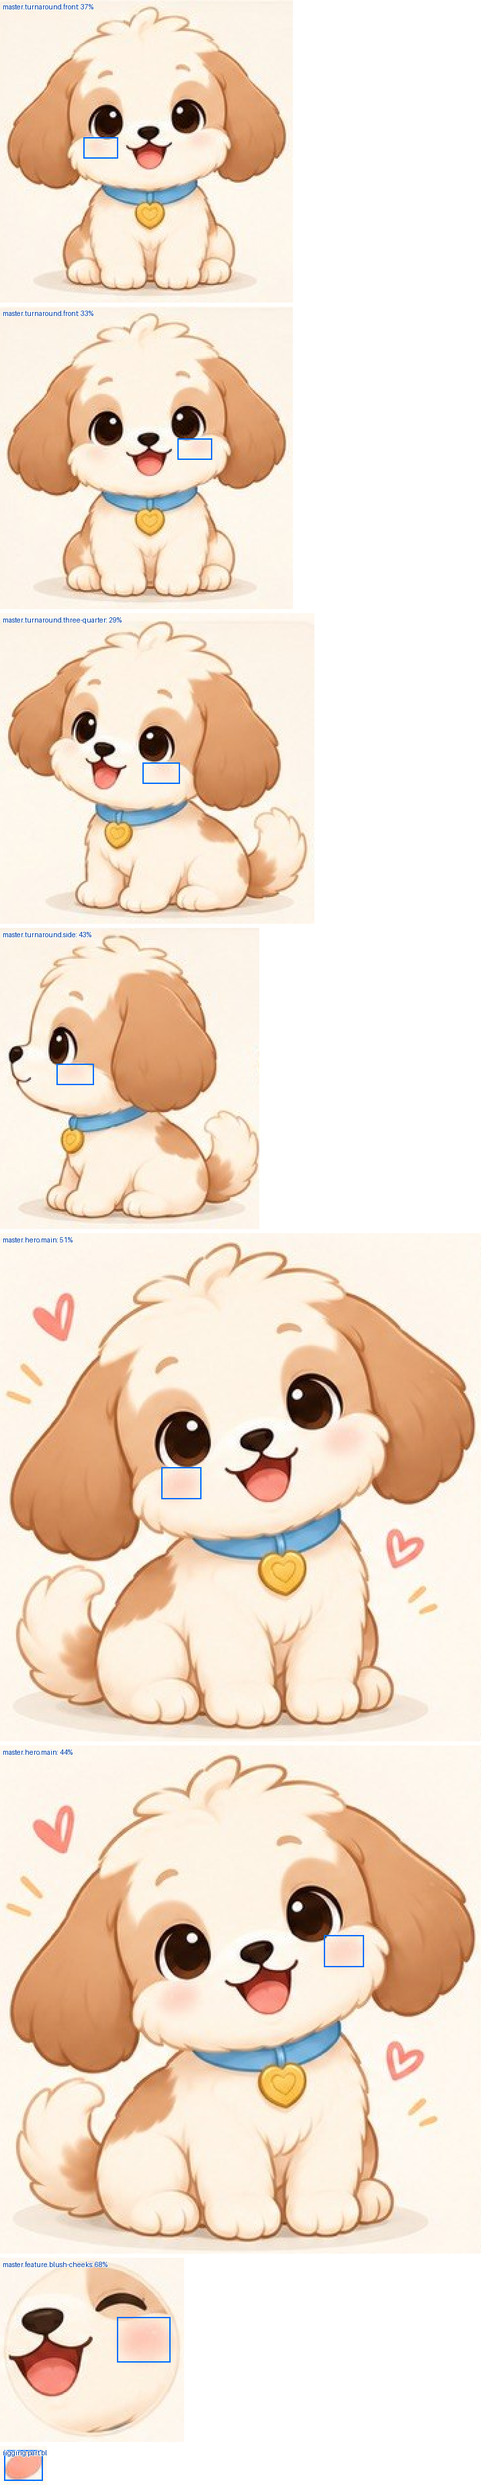
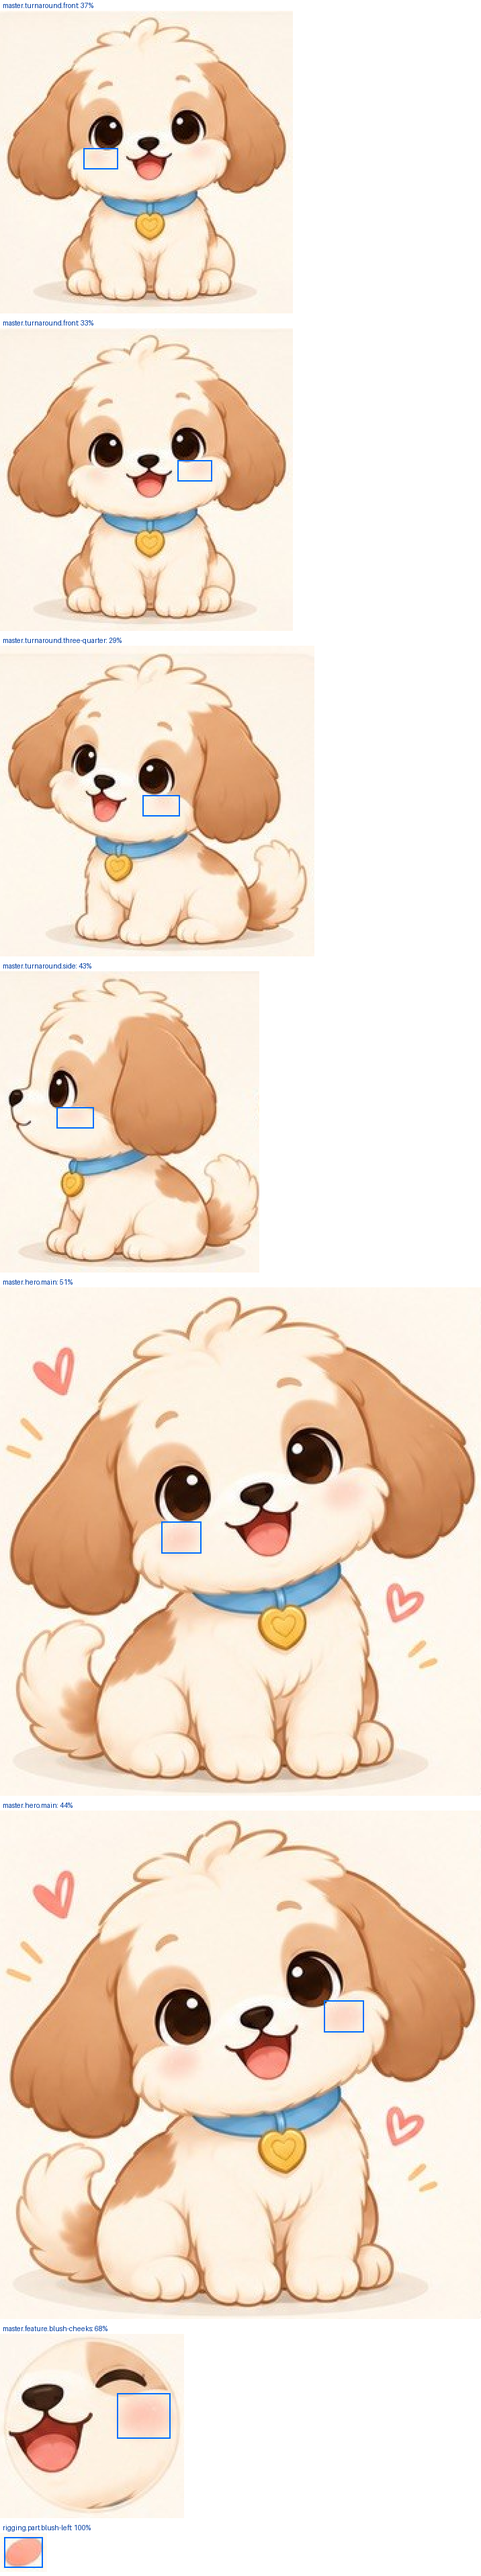
Close the final check's findings
Q24 and DECISIONS 18 give the nose's numbers per view and Q24's default names
every region it moves; DECISIONS 17 gives the Stand's tail root. The tests
pin the collar's centre and the front and back views' ground too, a blush box
off its panel fails through the function sample() uses, and two test names
say what they check. The blush overlay shows every label in full.

Claude-Session: https://claude.ai/code/session_01MXaHnDR5xXHB9UwvyUL8cb

diff --git a/characters/refprep/test_refprep.py b/characters/refprep/test_refprep.py
@@ -225,18 +225,18 @@ class LandmarksOnTheSheetTest(unittest.TestCase):
     # The automatic landmarks as reviewed on the overlays (crop px), so a change that moves one onto another
     # feature (the nose into the mouth, a corner onto the jaw) fails here, not only in a diff.
     REVIEWED = {
-        "front": {"head.top": [111.5, 5.0], "collar.line.sheetLeft": [77.0, 139.0], "collar.line.sheetRight": [146.0, 136.5],
+        "front": {"head.top": [111.5, 5.0], "ground": [110.4, 216.0], "collar": [112.1, 144.2], "collar.line.sheetLeft": [77.0, 139.0], "collar.line.sheetRight": [146.0, 136.5],
                   "tag.top": [111.1, 151.0], "eye.R": [79.3, 89.9], "eye.L": [138.5, 85.8], "nose": [110.2, 98.2],
                   "mouth.R": [94.0, 108.0], "mouth.L": [127.0, 106.0], "ear.R.root": [58.8, 44.0], "ear.R.tip": [41.2, 137.0],
                   "ear.L.root": [157.7, 38.0], "ear.L.tip": [176.5, 133.0], "chin": [110.0, 143.0]},
-        "threeQuarter.L": {"head.top": [120.5, 6.0], "collar.line.sheetLeft": [71.0, 144.5], "collar.line.sheetRight": [136.0, 142.0],
+        "threeQuarter.L": {"head.top": [120.5, 6.0], "collar": [102.6, 149.5], "collar.line.sheetLeft": [71.0, 144.5], "collar.line.sheetRight": [136.0, 142.0],
                            "tag.top": [87.4, 157.0], "eye.R": [63.1, 84.0], "eye.L": [115.0, 96.5], "nose": [76.8, 100.7],
                            "mouth.R": [64.0, 108.0], "mouth.L": [93.0, 113.0], "ear.R.root": [58.4, 35.0], "ear.R.tip": [31.7, 118.0],
                            "ear.L.root": [163.5, 44.0], "ear.L.tip": [169.7, 144.0], "chin": [77.0, 144.0]},
-        "side.L": {"head.top": [82.5, 5.0], "collar.line.sheetLeft": [51.0, 144.0], "collar.line.sheetRight": [105.0, 137.5],
+        "side.L": {"head.top": [82.5, 5.0], "collar": [77.7, 142.7], "collar.line.sheetLeft": [51.0, 144.0], "collar.line.sheetRight": [105.0, 137.5],
                    "tag.top": [53.2, 150.0], "eye.L": [44.4, 86.9], "nose": [10.4, 94.8], "mouth.L": [22.0, 111.0],
                    "ear.L.root": [114.4, 31.0], "ear.L.tip": [114.2, 135.0]},
-        "back": {"head.top": [86.5, 6.0], "collar.line.sheetLeft": [63.0, 131.5], "collar.line.sheetRight": [137.0, 131.5],
+        "back": {"head.top": [86.5, 6.0], "ground": [98.8, 215.0], "collar": [99.5, 127.2], "collar.line.sheetLeft": [63.0, 131.5], "collar.line.sheetRight": [137.0, 131.5],
                  "ear.L.root": [49.2, 29.0], "ear.L.tip": [35.9, 128.0], "ear.R.root": [147.2, 24.0], "ear.R.tip": [162.0, 126.0]},
     }
 
@@ -247,7 +247,7 @@ class LandmarksOnTheSheetTest(unittest.TestCase):
                 with self.subTest(view=view, landmark=name):
                     self.assertLessEqual(np.hypot(points[name][0] - x, points[name][1] - y), 2.5)
 
-    def test_the_tag_hangs_below_its_ring_and_the_ears_root_mid_edge(self):
+    def test_the_tag_hangs_under_its_ring_and_the_face_is_in_order(self):
         for view, (classes, sil, points, _, _) in self.views.items():
             with self.subTest(view=view):
                 if "tag.ring" in points:
@@ -408,8 +408,10 @@ class PaletteTest(unittest.TestCase):
         self.assertAlmostEqual(palette.delta(palette.swatch(np.asarray(image)), "#7DB7E8"), 0.0, places=6)
 
     def test_a_blush_box_off_its_panel_fails(self):
-        self.assertTrue(palette.inside([10, 10, 5, 5], [0, 0, 20, 20]))
-        self.assertFalse(palette.inside([18, 10, 5, 5], [0, 0, 20, 20]))
+        panels = {"p": {"box": [0, 0, 20, 20]}}
+        self.assertEqual(palette.check_blush_box({"panel": "p", "box": [10, 10, 5, 5]}, panels), panels["p"])
+        with self.assertRaises(ValueError):
+            palette.check_blush_box({"panel": "p", "box": [18, 10, 5, 5]}, panels)
 
     def test_a_wash_over_the_fur_gives_its_opacity(self):
         fur, blush = sheets.hex_to_rgb("#FFF4E8").astype(float), sheets.hex_to_rgb("#F7B3A6").astype(float)

diff --git a/characters/refprep/palette.py b/characters/refprep/palette.py
@@ -113,6 +113,14 @@ def regions(rgb, sil, view):
     return {k: v for k, v in found.items() if v is not None and v.any()}
 
 
+def check_blush_box(where, panels):
+    """A cheek box must lie inside the panel it names, so a box moved onto another panel fails."""
+    panel = panels[where["panel"]]
+    if not inside(where["box"], panel["box"]):
+        raise ValueError(f"the blush box {where['box']} is not inside {where['panel']} {panel['box']}")
+    return panel
+
+
 def inside(box, outer):
     """Whether a box [x, y, width, height] lies wholly inside another."""
     x, y, w, h = box
@@ -193,19 +201,22 @@ def sample(species):
             views[view][role] = entry
     cheeks, tiles = [], []
     for where in plan["blush"]:
-        panel = panels[where["panel"]]
+        panel = check_blush_box(where, panels)
         x, y, w, h = where["box"]
         px, py, pw, ph = panel["box"]
-        if not inside(where["box"], panel["box"]):
-            raise ValueError(f"the blush box {where['box']} is not inside {where['panel']} {panel['box']}")
         sheet = sheets.load_sheet(species, panel["sheet"])
         alpha, peak = blush(sheet[y:y + h, x:x + w], printed["fur"], printed["blush"])
         cheeks.append({"panel": where["panel"], "box": where["box"], "note": where["note"],
                        "peak": sheets.rgb_to_hex(peak), "opacity": round(alpha, 2)})
-        tile = Image.fromarray(sheet[py:py + ph, px:px + pw]).resize((pw * 2, ph * 2), Image.NEAREST)
-        draw = ImageDraw.Draw(tile)
+        crop = Image.fromarray(sheet[py:py + ph, px:px + pw]).resize((pw * 2, ph * 2), Image.NEAREST)
+        draw = ImageDraw.Draw(crop)
         draw.rectangle([(x - px) * 2, (y - py) * 2, (x - px + w) * 2 - 1, (y - py + h) * 2 - 1], outline=(0, 110, 255), width=2)
-        draw.text((4, 4), f"{where['panel']}: {alpha:.0%}", fill=(0, 60, 160), stroke_width=1, stroke_fill=(255, 255, 255))
+        # The label goes above the panel, on a strip as wide as it needs.
+        label = f"{where['panel']}: {alpha:.0%}"
+        width = max(crop.width, int(draw.textlength(label)) + 8)
+        tile = Image.new("RGB", (width, crop.height + 16), (255, 255, 255))
+        tile.paste(crop, (0, 16))
+        ImageDraw.Draw(tile).text((4, 2), label, fill=(0, 60, 160))
         tiles.append(np.asarray(tile))
     resting = [c["opacity"] for c in cheeks if c["panel"].startswith("master.turnaround.")]
     outline = [sheets.hex_to_rgb(v["outline"]["dominant"]) for v in views.values() if "outline" in v]

diff --git a/characters/refprep/markings.py b/characters/refprep/markings.py
@@ -75,7 +75,7 @@ def colour_chart(plan, records, tan_printed, path):
     for marking in plan["markings"]:
         seen = [r for r in records if r["marking"] == marking["id"]]
         cells = [(sheets.hex_to_rgb(tan_printed), tan_printed)]
-        cells += [(sheets.hex_to_rgb(r["dominant"]), f"{r['panel'].split('.')[-1].replace('main', 'hero')[:9]} {r['deltaE2000']}") for r in seen]
+        cells += [(sheets.hex_to_rgb(r["dominant"]), f"{r['panel'].split('.')[-1].replace('main', 'hero').replace('three-quarter', '3/4')} {r['deltaE2000']}") for r in seen]
         rows.append((marking["id"], cells))
     palette.chip_image(rows, path)
 

diff --git a/docs/QUESTIONS.md b/docs/QUESTIONS.md
@@ -27,8 +27,8 @@ Where the spec is silent or contradicts itself, I don't invent the answer. The q
 
 ### Q24. Where the dog's sheet paints colours its printed palette doesn't have, do I draw what it paints?
 - **The spec says:** L189 "The dog and rabbit values are their sheets' printed labels"; L181 "Markings | tan `#D9A379`: ears, head and body patches, tail"; L184 "Dark | `#3A2314`: eyes, nose"; L183 "Pink | `#F7B3A6`: blush, tongue"; L507 "one soft shade (the fill 8–12% darker ...)"; L504 "Each part's silhouette, the eye size and spacing ... match the sheet"; L524 the palette check, each region's dominant colour within ΔE2000 3 of the palette.
-- **Why it matters:** measured on the turnaround and the hero (`characters/dog/DECISIONS.md` 17 and 18; `ref/overlays/palette.png`, `markings-colours.png`), five colours are far from the printed values. The pupils and upper iris are near-black `#200C02`, 8.5 to 9.6 from `#3A2314`; the nose is as dark in the front and side views (4.2 to 14.6); `#3A2314` is nearest the lighter lower iris in the front view (2.8). The head patches are a paler tan, `#F0BC92`, 6.3 to 7.7 from `#D9A379`, which the ears (2.8 to 2.9) and the saddle (2.3 to 3.7 on the master sheet, up to 4.5 on the motion sheet) do match. The fur's soft shade is a warmer hue, `#FDE3C8`, 6.2 to 7.5 from the printed Soft Shadow, which is the fur × 0.91, exactly L507's rule (the printed value matches the sheet's ground shadow instead). The tongue is a deeper `#FB9A88`, 6.9 to 9.5 from the pink. The open mouth's inside has no printed value: `#9E241A` in the front view, `#69190C` in the three-quarter. Drawn in the printed values, the eyes look browner, the face patches darker and the tongue paler than the sheet's.
-- **Default:** draw what the sheet paints. `model.json` keeps the printed palette and proposes the five values sampled on the front view beside it (`paletteProposed`), each for its own region only. The palette check holds each region to one value at ΔE2000 3, never to whichever entry is nearest. What changes is that value: while this default holds, the pupils, the head patches, the fur's shade and the tongue are held to the sampled colours, and drawn in the printed ones they would fail. At Gate A I show the dog in both versions beside the sheet.
+- **Why it matters:** measured on the turnaround and the hero (`characters/dog/DECISIONS.md` 17 and 18; `ref/overlays/palette.png`, `markings-colours.png`), five colours are far from the printed values. The pupils and upper iris are near-black `#200C02`, 8.5 to 9.6 from `#3A2314`; the nose is near-black too, 14.6 and 8.8 from `#3A2314` in the front and side views (4.2 in the three-quarter, which carries a large shine), `#200C02` matching the side's nose (0.4) and the front's darker still (8.1); `#3A2314` is nearest the lighter lower iris in the front view (2.8; 5.4 and 8.0 in the side and three-quarter views). The head patches are a paler tan, `#F0BC92`, 6.3 to 7.7 from `#D9A379`, which the ears (2.8 to 2.9) and the saddle (2.3 to 3.7 on the master sheet, up to 4.5 on the motion sheet) do match. The fur's soft shade is a warmer hue, `#FDE3C8`, 6.2 to 7.5 from the printed Soft Shadow, which is the fur × 0.91, exactly L507's rule (the printed value matches the sheet's ground shadow instead). The tongue is a deeper `#FB9A88`, 6.9 to 9.5 from the pink. The open mouth's inside has no printed value: `#9E241A` in the front view, `#69190C` in the three-quarter. Drawn in the printed values, the eyes look browner, the face patches darker and the tongue paler than the sheet's.
+- **Default:** draw what the sheet paints. `model.json` keeps the printed palette and proposes the five values sampled on the front view beside it (`paletteProposed`), each for its own region only. The palette check holds each region to one value at ΔE2000 3, never to whichever entry is nearest. What changes is that value: while this default holds, the pupils, the upper iris, the nose, the head patches, the fur's shade and the tongue are held to the sampled colours, and drawn in the printed ones they would fail. At Gate A I show the dog in both versions beside the sheet.
 - **Owner:** founder
 
 ### Q25. The palette check would fail the sheet's own blush. May I check the blush as a level?

diff --git a/characters/dog/DECISIONS.md b/characters/dog/DECISIONS.md
@@ -79,11 +79,11 @@ Overlay: `palette.png`; crops `master.palette.*.png`.
 
 **17. How the sheet's pixels compare with the printed values** (CIEDE2000, `ref/palette.json`):
 - The swatches, as the JPEG holds them, are 1.5 to 4.6 from their printed values; three are over 3: Eyes / Nose 4.6, Gold Tag 3.9, Collar Blue 3.1. The printed values stay.
-- In the drawn dog the fur (0.5 to 1.2), the ears' tan (2.8 to 2.9), the saddle (2.3 to 3.7 on the master sheet, 3.9 to 4.5 on the motion sheet's poses), the tail's root (2.2 to 2.8; 6.8 where it shows pale inside the curl from behind), the tag (3.0 to 3.4) and the ground shadow (1.9 to 3.0) are at or near the printed values. The printed Soft Shadow is the ground shadow's colour. The collar's most common colour is its shaded lower half in the front view (6.3) and its lit band elsewhere (2.6 to 4.7). The printed Eyes / Nose brown is nearest the eye's lighter lower iris in the front view (2.8; 5.4 and 8.0 in the side and three-quarter views).
+- In the drawn dog the fur (0.5 to 1.2), the ears' tan (2.8 to 2.9), the saddle (2.3 to 3.7 on the master sheet, 3.9 to 4.5 on the motion sheet's poses), the tail's root (2.2 to 2.8, 4.3 in the motion sheet's Stand; 6.8 where it shows pale inside the curl from behind), the tag (3.0 to 3.4) and the ground shadow (1.9 to 3.0) are at or near the printed values. The printed Soft Shadow is the ground shadow's colour. The collar's most common colour is its shaded lower half in the front view (6.3) and its lit band elsewhere (2.6 to 4.7). The printed Eyes / Nose brown is nearest the eye's lighter lower iris in the front view (2.8; 5.4 and 8.0 in the side and three-quarter views).
 Overlays: `palette.png`, `palette-regions-*.png`, `markings-colours.png`; numbers in `ref/palette.json` and `ref/markings.json`.
 
 **18. Where the sheet paints colours the printed palette lacks**, the values sampled on the front view (the view on Home, first in priority) are proposed in `model.json` (`paletteProposed`) for the founder to decide at Gate A (`docs/QUESTIONS.md`, Q24):
-- the pupils and the upper iris: near-black `#200C02`, 8.5 to 9.6 from the printed `#3A2314`; the nose is as dark in the front and side views (4.2 to 14.6 from the printed value; its three-quarter view carries a large shine);
+- the pupils and the upper iris: near-black `#200C02`, 8.5 to 9.6 from the printed `#3A2314`. The nose is near-black too: 14.6 and 8.8 from `#3A2314` in the front and side views (4.2 in the three-quarter, which carries a large shine); `#200C02` matches the side's nose (0.4), and the front's is darker still (8.1);
 - the head patches: a paler tan, `#F0BC92`, 6.3 to 7.7 from the printed `#D9A379` on every panel that shows them;
 - the fur's soft shade: `#FDE3C8`, 6.2 to 7.5 from the printed Soft Shadow. The printed value is the fur × 0.91 in every channel, exactly section 5b's "the fill 8–12% darker" (L507); the sheet's shade is a warmer hue instead;
 - the tongue: `#FB9A88`, 6.9 to 9.5 from the printed pink;

diff --git a/docs/PLAN.md b/docs/PLAN.md
@@ -137,7 +137,7 @@ In the order they come up. Weeks count from your `go`. Secrets go in GitHub (Set
 
 **Around week 3:** allow `commons.wikimedia.org` and `upload.wikimedia.org` for Muybridge's plates, needed in phase 4 (Edit the environment, Network access: https://code.claude.com/docs/en/cloud-environments#network-access), or upload the plates. Slow-motion video of a real puppy helps too, if you have some. Nothing else is needed; I work around the other blocked sites (`LIMITATIONS.md`).
 
-**Around week 3 to 4, at Gate A:** approve the dog's look: the views, the faces, the marking map and the collar blue; answer Q2 (the dog's squeeze and sparkle eyes) Q24 (the colours the sheet paints that its printed palette lacks) and Q25 (the blush checked as a level); a first look at the new hungry and huffy faces. Q3 (four Visual QA checks) by phase 4.
+**Around week 3 to 4, at Gate A:** approve the dog's look: the views, the faces, the marking map and the collar blue; answer Q2 (the dog's squeeze and sparkle eyes), Q24 (the colours the sheet paints that its printed palette lacks) and Q25 (the blush checked as a level); a first look at the new hungry and huffy faces. Q3 (four Visual QA checks) by phase 4.
 
 **Around week 5, at Gate B:** answer Q4 (temporary licensed sounds are fine for Gate B).
 
